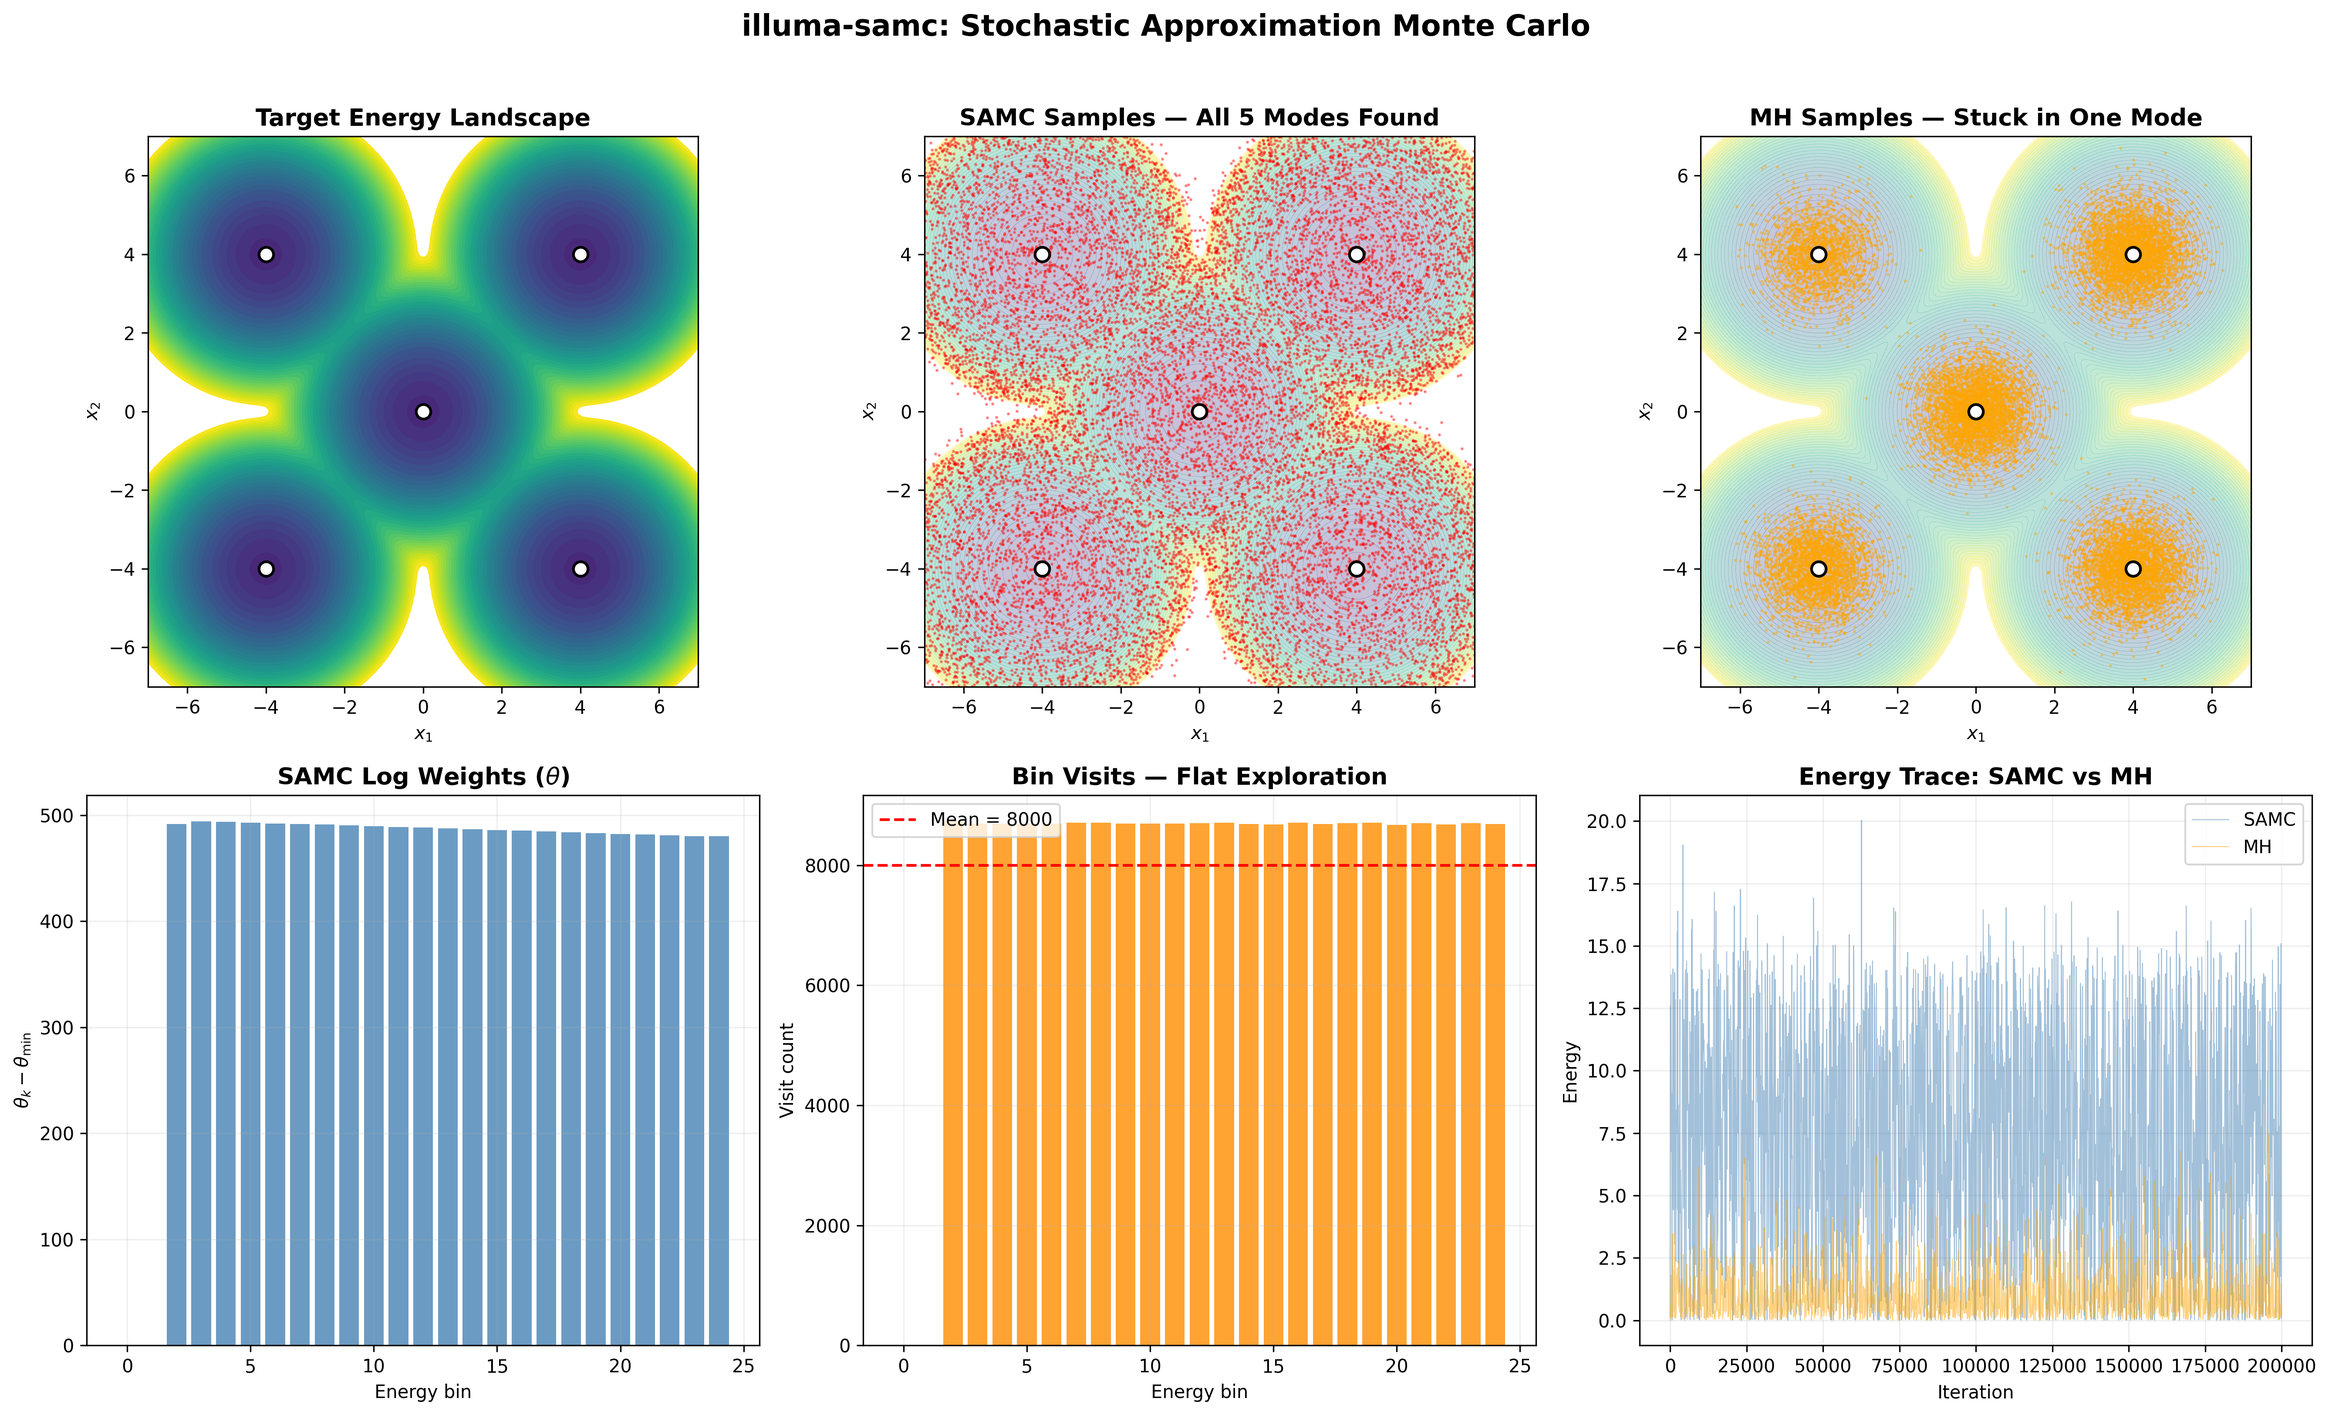
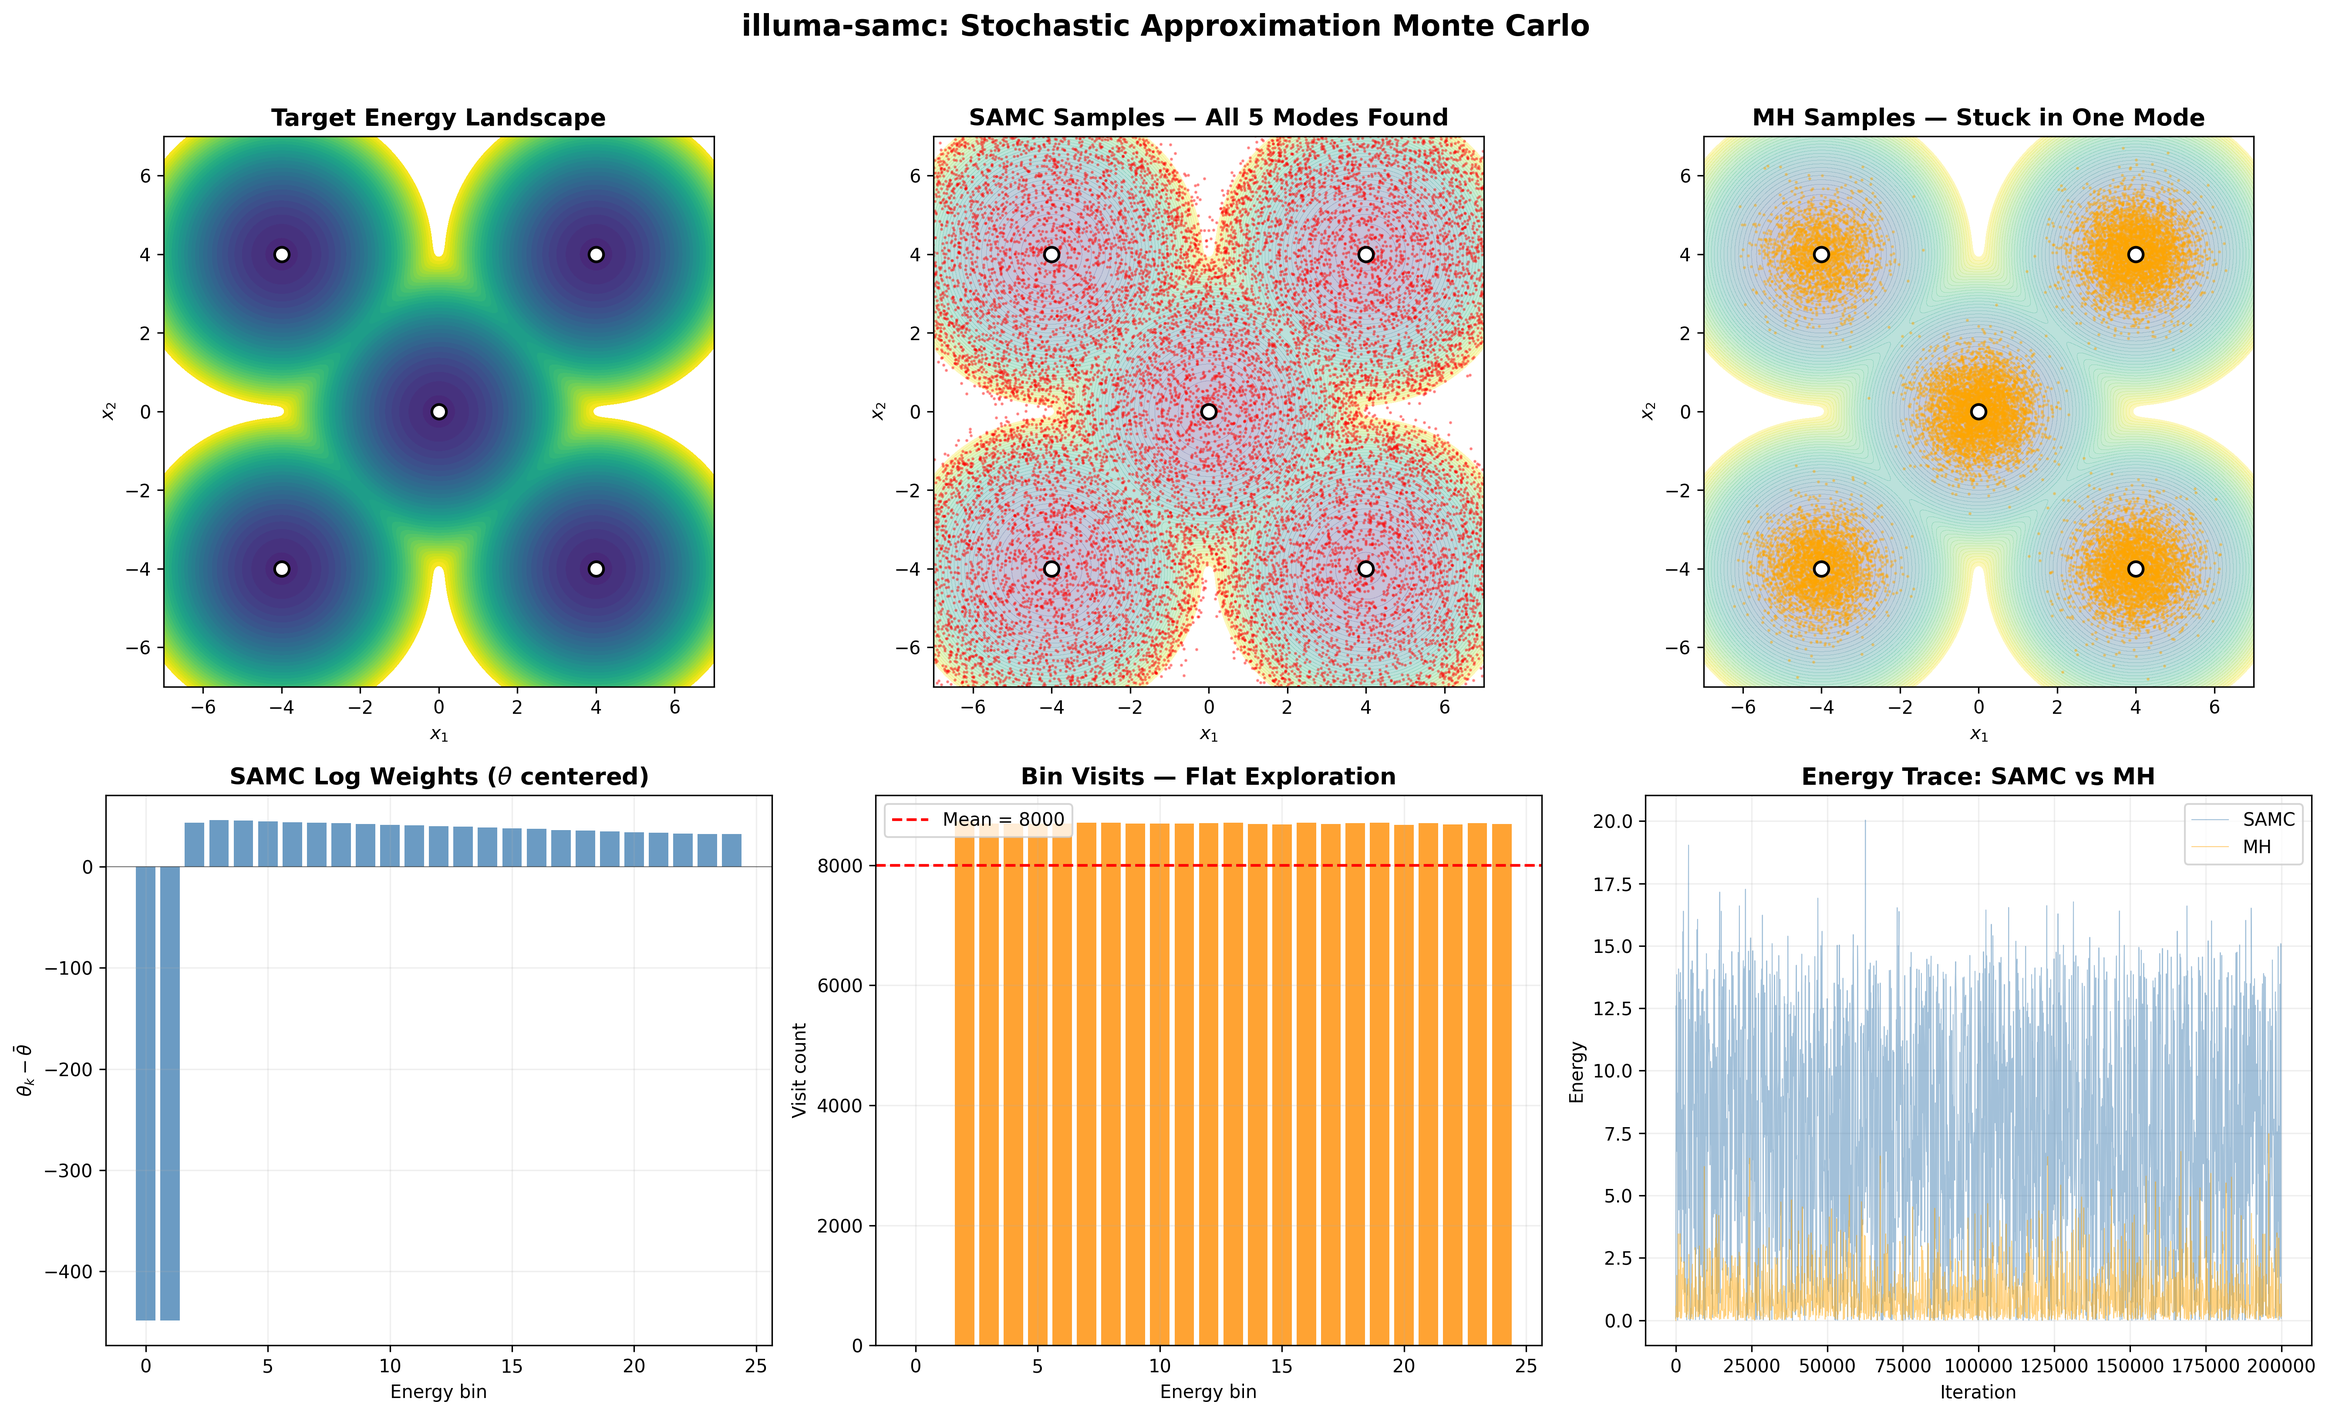
Fix benchmark fairness and center log weights in plots
Benchmark:
- Add consistent burn-in (10%) and save_every (100) for all methods
- Set PT coldest temperature to 1.0 (was 0.1, unfair advantage)
- All methods now collect identical number of post-burn-in samples
- Update README with corrected benchmark numbers

Diagnostics/demo:
- Center theta by subtracting mean in diagnostic plots (was showing
  raw values with numerical drift)
- Match reference implementation's weight normalization convention

diff --git a/benchmarks/vs_mh_pt.py b/benchmarks/vs_mh_pt.py
@@ -81,6 +81,8 @@ def run_mh(
     proposal_std: float = 0.25,
     temperature: float = 1.0,
     x0: torch.Tensor | None = None,
+    burn_in: int = 0,
+    save_every: int = 1,
 ) -> dict:
     """Run standard MH. Returns dict of metrics + samples."""
     x = x0.clone() if x0 is not None else torch.zeros(dim)
@@ -94,9 +96,9 @@ def run_mh(
     best_x, best_e = x.clone(), fx
     accept_count = 0
     energies = []
-    samples = [x.clone()]
+    samples = []
 
-    for _ in range(1, n_iters + 1):
+    for it in range(1, n_iters + 1):
         y = x + proposal_std * torch.randn(dim)
         result = energy_fn(y)
         if isinstance(result, tuple):
@@ -125,14 +127,16 @@ def run_mh(
             best_e = fx
             best_x = x.clone()
         energies.append(fx)
-        samples.append(x.clone())
+
+        if it > burn_in and it % save_every == 0:
+            samples.append(x.clone())
 
     return {
         "best_energy": best_e,
         "best_x": best_x,
         "acceptance_rate": accept_count / n_iters,
         "energies": torch.tensor(energies),
-        "samples": torch.stack(samples),
+        "samples": torch.stack(samples) if samples else torch.empty(0, dim),
     }
 
 
@@ -147,11 +151,16 @@ def run_parallel_tempering(
     n_iters: int,
     n_replicas: int = 8,
     proposal_std: float = 0.25,
-    t_min: float = 0.1,
+    t_min: float = 1.0,
     t_max: float = 10.0,
     swap_interval: int = 10,
+    burn_in: int = 0,
+    save_every: int = 1,
 ) -> dict:
-    """Parallel tempering with geometric temperature ladder."""
+    """Parallel tempering with geometric temperature ladder.
+
+    Coldest replica runs at t_min (default 1.0 for fair comparison with MH).
+    """
     temps = torch.logspace(math.log10(t_min), math.log10(t_max), n_replicas)
 
     # Initialize replicas
@@ -173,7 +182,7 @@ def run_parallel_tempering(
     accept_counts = [0] * n_replicas
     swap_count = 0
     swap_attempts = 0
-    cold_samples = [states[0].clone()]
+    cold_samples = []
 
     for it in range(1, n_iters + 1):
         # MH step for each replica
@@ -209,8 +218,6 @@ def run_parallel_tempering(
 
             energies_list[i].append(fxs[i])
 
-        cold_samples.append(states[0].clone())
-
         # Replica swaps
         if it % swap_interval == 0:
             for i in range(n_replicas - 1):
@@ -221,6 +228,10 @@ def run_parallel_tempering(
                     fxs[i], fxs[i + 1] = fxs[i + 1], fxs[i]
                     swap_count += 1
 
+        # Collect sample from coldest replica (after burn-in, at save_every)
+        if it > burn_in and it % save_every == 0:
+            cold_samples.append(states[0].clone())
+
     # Return coldest replica stats
     return {
         "best_energy": best_e,
@@ -228,7 +239,7 @@ def run_parallel_tempering(
         "acceptance_rate": accept_counts[0] / n_iters,
         "swap_rate": swap_count / max(swap_attempts, 1),
         "energies": torch.tensor(energies_list[0]),
-        "samples": torch.stack(cold_samples),
+        "samples": torch.stack(cold_samples) if cold_samples else torch.empty(0, dim),
     }
 
 
@@ -274,21 +285,45 @@ def benchmark_problem(
     samc_kwargs: dict,
     mh_kwargs: dict,
     pt_kwargs: dict,
+    burn_in_frac: float = 0.1,
+    save_every: int = 100,
 ) -> dict:
-    """Run all three methods and collect metrics."""
+    """Run all three methods with identical burn-in and sample collection.
+
+    All methods use the same:
+    - Total iterations (n_iters)
+    - Burn-in period (burn_in_frac * n_iters, discarded from samples)
+    - Sample collection frequency (save_every)
+    - Proposal step size (via kwargs)
+    """
+    burn_in = int(n_iters * burn_in_frac)
+    n_samples = (n_iters - burn_in) // save_every
+
     results = {}
     print(f"\n{'=' * 60}")
     print(f"  {name}")
     print(f"{'=' * 60}")
+    print(
+        f"  Settings: {n_iters:,} iters, burn-in={burn_in:,}, "
+        f"save_every={save_every}, n_samples={n_samples:,}"
+    )
 
     # --- SAMC ---
+    # SAMC save_every applies to all iterations (including burn-in) since
+    # the sampler API doesn't have a burn_in param. We slice post-hoc.
     torch.manual_seed(42)
     print(f"  Running SAMC ({n_iters:,} iters)...")
     t0 = time.perf_counter()
     sampler = SAMC(energy_fn=energy_fn, dim=dim, **samc_kwargs)
-    samc_result = sampler.run(n_steps=n_iters, save_every=100, progress=True)
+    samc_result = sampler.run(n_steps=n_iters, save_every=save_every, progress=True)
     t_samc = time.perf_counter() - t0
-    samc_ess = compute_ess(samc_result.energy_history.flatten())
+
+    # Discard burn-in samples (first burn_in // save_every saved snapshots)
+    burn_in_snapshots = burn_in // save_every
+    samc_samples = samc_result.samples[burn_in_snapshots:]
+
+    samc_energies_post = samc_result.energy_history.flatten()[burn_in:]
+    samc_ess = compute_ess(samc_energies_post)
     results["samc"] = {
         "best_energy": samc_result.best_energy,
         "best_x": samc_result.best_x,
@@ -296,21 +331,23 @@ def benchmark_problem(
         "ess": samc_ess,
         "wall_time": t_samc,
         "energies": samc_result.energy_history.flatten(),
-        "samples": samc_result.samples,
+        "samples": samc_samples,
     }
     print(
         f"    best_E={samc_result.best_energy:.4f}  "
         f"acc={samc_result.acceptance_rate:.3f}  "
-        f"ESS={samc_ess:.0f}  time={t_samc:.1f}s"
+        f"ESS={samc_ess:.0f}  "
+        f"n_samples={len(samc_samples)}  time={t_samc:.1f}s"
     )
 
     # --- MH ---
     torch.manual_seed(42)
     print(f"  Running MH ({n_iters:,} iters)...")
     t0 = time.perf_counter()
-    mh_result = run_mh(energy_fn, dim, n_iters, **mh_kwargs)
+    mh_result = run_mh(energy_fn, dim, n_iters, burn_in=burn_in, save_every=save_every, **mh_kwargs)
     t_mh = time.perf_counter() - t0
-    mh_ess = compute_ess(mh_result["energies"])
+    mh_energies_post = mh_result["energies"][burn_in:]
+    mh_ess = compute_ess(mh_energies_post)
     results["mh"] = {
         "best_energy": mh_result["best_energy"],
         "best_x": mh_result["best_x"],
@@ -323,16 +360,20 @@ def benchmark_problem(
     print(
         f"    best_E={mh_result['best_energy']:.4f}  "
         f"acc={mh_result['acceptance_rate']:.3f}  "
-        f"ESS={mh_ess:.0f}  time={t_mh:.1f}s"
+        f"ESS={mh_ess:.0f}  "
+        f"n_samples={len(mh_result['samples'])}  time={t_mh:.1f}s"
     )
 
     # --- Parallel Tempering ---
     torch.manual_seed(42)
     print(f"  Running PT ({n_iters:,} iters, {pt_kwargs.get('n_replicas', 8)} replicas)...")
     t0 = time.perf_counter()
-    pt_result = run_parallel_tempering(energy_fn, dim, n_iters, **pt_kwargs)
+    pt_result = run_parallel_tempering(
+        energy_fn, dim, n_iters, burn_in=burn_in, save_every=save_every, **pt_kwargs
+    )
     t_pt = time.perf_counter() - t0
-    pt_ess = compute_ess(pt_result["energies"])
+    pt_energies_post = pt_result["energies"][burn_in:]
+    pt_ess = compute_ess(pt_energies_post)
     results["pt"] = {
         "best_energy": pt_result["best_energy"],
         "best_x": pt_result["best_x"],
@@ -347,7 +388,8 @@ def benchmark_problem(
         f"    best_E={pt_result['best_energy']:.4f}  "
         f"acc={pt_result['acceptance_rate']:.3f}  "
         f"swap={pt_result['swap_rate']:.3f}  "
-        f"ESS={pt_ess:.0f}  time={t_pt:.1f}s"
+        f"ESS={pt_ess:.0f}  "
+        f"n_samples={len(pt_result['samples'])}  time={t_pt:.1f}s"
     )
 
     return results
@@ -366,7 +408,6 @@ def plot_trajectories_2d(results_2d: dict):
 
     methods = ["samc", "mh", "pt"]
     labels = ["SAMC", "MH", "Parallel Tempering"]
-    colors = ["#2196F3", "#FF9800", "#4CAF50"]
 
     fig, axes = plt.subplots(1, 3, figsize=(18, 5.5))
     fig.suptitle(
@@ -375,7 +416,7 @@ def plot_trajectories_2d(results_2d: dict):
         fontweight="bold",
     )
 
-    for ax, method, label, color in zip(axes, methods, labels, colors):
+    for ax, method, label in zip(axes, methods, labels):
         # Energy contour background
         ax.contourf(
             xx.numpy(),
@@ -539,19 +580,27 @@ def print_summary_table(results_2d: dict, results_10d: dict):
 
 
 def main():
+    # Shared settings for fair comparison
     n_iters_2d = 500_000
     n_iters_10d = 200_000
+    save_every = 100  # same collection frequency for all methods
+    burn_in_frac = 0.1  # discard first 10% as burn-in
+
+    proposal_std_2d = 0.25  # same proposal for all methods on 2D problem
+    proposal_std_10d = 1.0  # same proposal for all methods on 10D problem
 
     results_2d = benchmark_problem(
         name="2D Multimodal Cost Function",
         energy_fn=cost_2d,
         dim=2,
         n_iters=n_iters_2d,
+        burn_in_frac=burn_in_frac,
+        save_every=save_every,
         samc_kwargs={
             "n_partitions": 42,
             "e_min": -8.2,
             "e_max": 0.0,
-            "proposal_std": 0.25,
+            "proposal_std": proposal_std_2d,
             "gain": "ramp",
             "gain_kwargs": {
                 "rho": 1.0,
@@ -560,11 +609,11 @@ def main():
                 "step_scale": 1000,
             },
         },
-        mh_kwargs={"proposal_std": 0.25, "temperature": 1.0},
+        mh_kwargs={"proposal_std": proposal_std_2d, "temperature": 1.0},
         pt_kwargs={
             "n_replicas": 8,
-            "proposal_std": 0.25,
-            "t_min": 0.1,
+            "proposal_std": proposal_std_2d,
+            "t_min": 1.0,
             "t_max": 10.0,
             "swap_interval": 10,
         },
@@ -575,11 +624,13 @@ def main():
         energy_fn=gaussian_mixture_10d,
         dim=10,
         n_iters=n_iters_10d,
+        burn_in_frac=burn_in_frac,
+        save_every=save_every,
         samc_kwargs={
             "n_partitions": 30,
             "e_min": -5.0,
             "e_max": 30.0,
-            "proposal_std": 1.0,
+            "proposal_std": proposal_std_10d,
             "gain": "ramp",
             "gain_kwargs": {
                 "rho": 1.0,
@@ -588,11 +639,11 @@ def main():
                 "step_scale": 1000,
             },
         },
-        mh_kwargs={"proposal_std": 1.0, "temperature": 1.0},
+        mh_kwargs={"proposal_std": proposal_std_10d, "temperature": 1.0},
         pt_kwargs={
             "n_replicas": 8,
-            "proposal_std": 1.0,
-            "t_min": 0.5,
+            "proposal_std": proposal_std_10d,
+            "t_min": 1.0,
             "t_max": 20.0,
             "swap_interval": 10,
         },

diff --git a/examples/demo_showcase.py b/examples/demo_showcase.py
@@ -221,14 +221,17 @@ def main():
     ax.set_xlim(-7, 7)
     ax.set_ylim(-7, 7)
 
-    # (4) Weight convergence over time
+    # (4) Weight convergence — centered theta (subtract mean, like reference code)
     ax = axes[1, 0]
     theta = result.log_weights.numpy()
-    # Show weight trajectory from energy_history approach: use final weights
-    ax.bar(range(len(theta)), theta - theta.min(), color="steelblue", alpha=0.8, edgecolor="none")
-    ax.set_title("SAMC Log Weights ($\\theta$)", fontsize=13, fontweight="bold")
+    theta_centered = theta - theta.mean()
+    ax.bar(
+        range(len(theta_centered)), theta_centered, color="steelblue", alpha=0.8, edgecolor="none"
+    )
+    ax.axhline(0, color="black", linewidth=0.5, alpha=0.5)
+    ax.set_title("SAMC Log Weights ($\\theta$ centered)", fontsize=13, fontweight="bold")
     ax.set_xlabel("Energy bin")
-    ax.set_ylabel("$\\theta_k - \\theta_{\\min}$")
+    ax.set_ylabel("$\\theta_k - \\bar{\\theta}$")
     ax.grid(alpha=0.2)
 
     # (5) Bin visit histogram

diff --git a/src/illuma_samc/diagnostics.py b/src/illuma_samc/diagnostics.py
@@ -46,12 +46,14 @@ def plot_diagnostics(
 
     fig, axes = plt.subplots(2, 2, figsize=figsize)
 
-    # (0,0) Weight trajectory (theta)
-    theta = sampler.log_weights.detach().cpu().numpy()
+    # (0,0) Weight trajectory (theta), centered by subtracting mean
+    theta_raw = sampler.log_weights.detach().cpu()
+    theta = (theta_raw - theta_raw.mean()).numpy()
     axes[0, 0].bar(range(len(theta)), theta, color="steelblue", alpha=0.8)
+    axes[0, 0].axhline(0, color="black", linewidth=0.5, alpha=0.5)
     axes[0, 0].set_xlabel("Bin index")
-    axes[0, 0].set_ylabel("Log weight (θ)")
-    axes[0, 0].set_title("SAMC Log Weights")
+    axes[0, 0].set_ylabel("Log weight (θ − mean)")
+    axes[0, 0].set_title("SAMC Log Weights (centered)")
     axes[0, 0].grid(alpha=0.2)
 
     # (0,1) Energy trace

diff --git a/README.md b/README.md
@@ -110,19 +110,19 @@ The trajectory comparison below shows how each sampler explores the 2D multimoda
 
 ### Quantitative Results
 
-SAMC vs Metropolis-Hastings vs Parallel Tempering on two problems:
+SAMC vs Metropolis-Hastings vs Parallel Tempering on two problems. All methods use identical proposal, burn-in (10%), and sample collection frequency (every 100th iteration) for fair comparison.
 
 | Problem | Method | Best Energy | ESS | Acc. Rate | Time (s) |
 |---------|--------|-------------|-----|-----------|----------|
-| 2D Multimodal | SAMC | -8.124 | 2585 | 0.213 | 24.4 |
-| 2D Multimodal | MH | -8.124 | 1250 | 0.154 | 20.6 |
-| 2D Multimodal | PT | -8.125 | 19004 | 0.069 | 170.9 |
-| 10D Gaussian | SAMC | 0.401 | 360 | 0.330 | 4.9 |
-| 10D Gaussian | MH | 0.385 | 4177 | 0.145 | 3.4 |
-| 10D Gaussian | PT | 0.580 | 10111 | 0.206 | 28.2 |
+| 2D Multimodal | SAMC | -8.124 | 2399 | 0.213 | 24.7 |
+| 2D Multimodal | MH | -8.124 | 1128 | 0.154 | 20.7 |
+| 2D Multimodal | PT (8 replicas) | -8.124 | 47326 | 0.467 | 173.8 |
+| 10D Gaussian | SAMC | 0.401 | 293 | 0.330 | 5.1 |
+| 10D Gaussian | MH | 0.385 | 3834 | 0.145 | 3.4 |
+| 10D Gaussian | PT (8 replicas) | 0.804 | 9417 | 0.265 | 29.1 |
 
 **Key takeaways:**
-- **2D multimodal:** All methods find the global minimum (~-8.12). SAMC achieves 2x the ESS of MH at similar cost. PT has highest ESS but 7x the wall-clock time.
+- **2D multimodal:** All methods find the global minimum (~-8.12). SAMC achieves 2x the ESS of MH at similar cost. PT has highest ESS but 7x the wall-clock time (8 replicas).
 - **10D Gaussian mixture:** SAMC has the highest acceptance rate (0.33) and competitive best energy at minimal cost. PT is 6x slower.
 
 Run benchmarks yourself:
